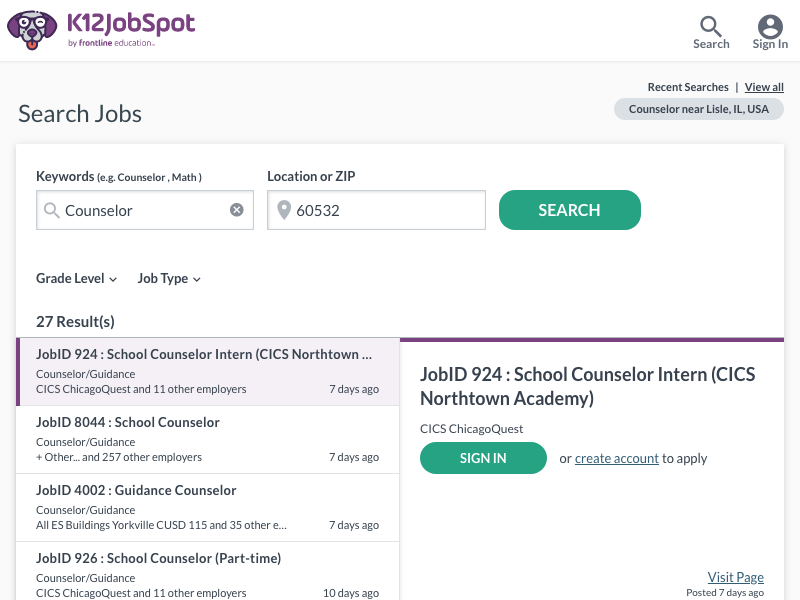
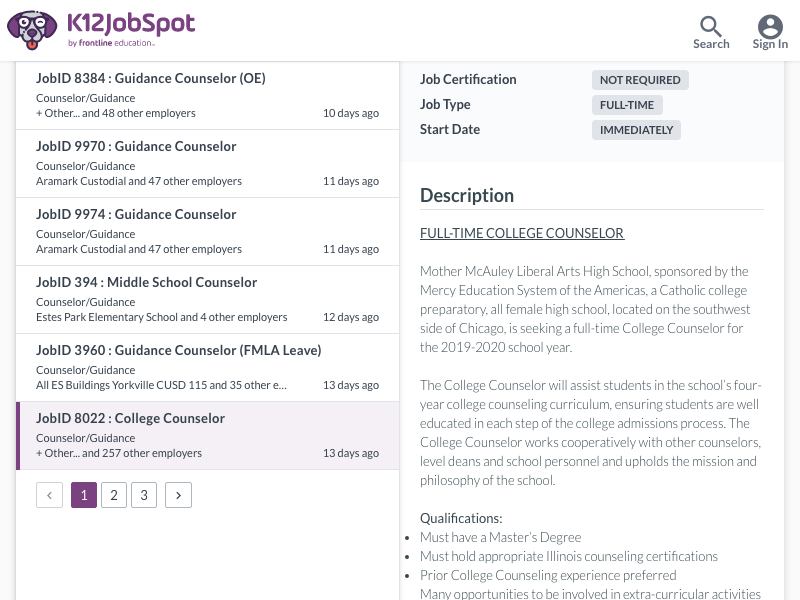
have all of puppeteer functoionality working, need to setup mongo next

diff --git a/dance.js b/dance.js
@@ -36,14 +36,44 @@ router.get("/", async function(req, res, next) {
   console.log("grabbing results");
 
   const results = await page.$$(".list .list-item");
+  const temp = {};
 
   for (const result of results) {
     // pass the single handle below
     const title = await page.evaluate(el => el.querySelector(".title").innerText, result);
+    const jobID = title
+      .split("JobID")[1]
+      .split(":")[0]
+      .trim();
     const datePosted = await page.evaluate(
       el => el.querySelector(".flex.subtitle.subtitle-right.ellipsis").innerText,
       result
     );
+
+    //mongo check for posting
+    console.log("clicking result");
+    await result.click();
+    await page.waitFor(250);
+
+    if (true) {
+      try {
+        console.log("clicking on post details");
+
+        //   const postingDetails = await page.$$(".job-overview");
+        const link = await page.$eval(".job-overview .job-overview-visit-page", el => el.href);
+        const desc = await page.$eval(".job-overview .job-details-header", el => el.innerHTML);
+        temp[jobID] = {
+          title,
+          datePosted,
+          link,
+          desc
+        };
+        console.log(link);
+        console.log(desc);
+      } catch (e) {
+        console.error("indiviual post click failed");
+      }
+    }
 
     // do whatever you want with the data
     console.log(title, datePosted);
@@ -52,7 +82,7 @@ router.get("/", async function(req, res, next) {
   await page.screenshot({ path: "example.png" });
 
   await browser.close();
-  res.json({ true: true });
+  res.json({ results: temp });
 });
 
 module.exports = router;
